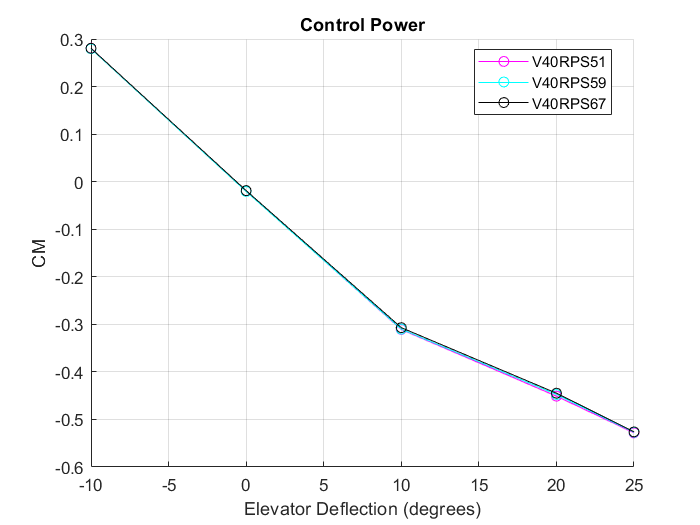
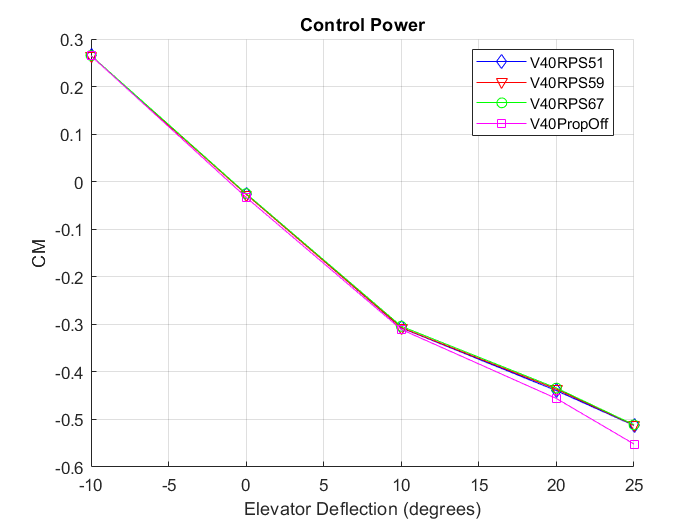
Push

diff --git a/BALANCE AND PRESSURE DATA/plotcontrolpowerV2.m b/BALANCE AND PRESSURE DATA/plotcontrolpowerV2.m
@@ -1,5 +1,5 @@
-function plotData = plotelevatoreffec(BAL)
-    % Define elevator deflection values
+function plotcontrolpowerV2(BAL)
+% Define elevator deflection values
     elevatorDeflections = [0, 10, 20, 25, -10];
     
     % Define windspeeds and RPS settings
@@ -16,16 +16,16 @@ function plotData = plotelevatoreffec(BAL)
             % Create field name
             fieldName = sprintf('V%dRPS%d', windspeeds(w), RPS_settings(r));
             
-            % Initialize CL values for the current combination
-            CL_values = zeros(size(elevatorDeflections));
+            % Initialize CMPITCH values for the current combination
+            CMPITCH_values = zeros(size(elevatorDeflections));
             
-            % Extract CL for the current combination of windspeed and RPS
+            % Extract CMPITCH for the current combination of windspeed and RPS
             for i = 6:numel(BAL.config)
                 % Get the configuration name
                 configName = BAL.config{i};
                 
-                % Extract CL, AoA, RPS, and windspeed for the current configuration
-                CL = BAL.windOn.(configName).CL;
+                % Extract CMPITCH, AoA, RPS, and windspeed for the current configuration
+                CMPITCH = BAL.windOn.(configName).CMpitch;
                 AoA = round(BAL.windOn.(configName).AoA);
                 current_RPS = round(BAL.windOn.(configName).rpsM1);
                 current_V = round(BAL.windOn.(configName).V);
@@ -33,12 +33,12 @@ function plotData = plotelevatoreffec(BAL)
                 % Find indices where AoA is zero and windspeed and RPS match the current combination
                 idx = find(AoA == 0 & current_RPS == RPS_settings(r) & current_V == windspeeds(w));
                 
-                % Store CL value corresponding to the matching elevator deflection
-                CL_values(i-5) = mean(CL(idx));
+                % Store CMPITCH value corresponding to the matching elevator deflection
+                CMPITCH_values(i-5) = mean(CMPITCH(idx));
             end
             
-            % Store CL values in the plotData struct
-            plotData.(fieldName) = CL_values;
+            % Store CMPITCH values in the plotData struct
+            plotData.(fieldName) = CMPITCH_values;
         end
     end
     % Loop over windspeeds
@@ -48,16 +48,16 @@ function plotData = plotelevatoreffec(BAL)
         % Create field name
         fieldName = sprintf('V%dPropOff', windspeeds(w));
         
-        % Initialize CL values for the current combination
-        CL_values = zeros(size(elevatorDeflections));
+        % Initialize CMPITCH values for the current combination
+        CMPITCH_values = zeros(size(elevatorDeflections));
         
-        % Extract CL for the current combination of windspeed and RPS
+        % Extract CMPITCH for the current combination of windspeed and RPS
         for i = 1:5
             % Get the configuration name
             configName = BAL.config{i};
             
-            % Extract CL, AoA, RPS, and windspeed for the current configuration
-            CL = BAL.windOn.(configName).CL;
+            % Extract CMPITCH, AoA, RPS, and windspeed for the current configuration
+            CMPITCH = BAL.windOn.(configName).CMpitch;
             AoA = round(BAL.windOn.(configName).AoA);
             
             current_V = round(BAL.windOn.(configName).V);
@@ -65,12 +65,12 @@ function plotData = plotelevatoreffec(BAL)
             % Find indices where AoA is zero and windspeed and RPS match the current combination
             idx = find(AoA == 0 & current_V == windspeeds(w));
             
-            % Store CL value corresponding to the matching elevator deflection
-            CL_values(i) = CL(idx);
+            % Store CMPITCH value corresponding to the matching elevator deflection
+            CMPITCH_values(i) = CMPITCH(idx);
         end
         
-        % Store CL values in the plotData struct
-        plotData.(fieldName) = CL_values;
+        % Store CMPITCH values in the plotData struct
+        plotData.(fieldName) = CMPITCH_values;
      
     end
     % Plot 
@@ -88,27 +88,27 @@ function plotData = plotelevatoreffec(BAL)
     % Loop over the fieldnames in plotData
     fnames = fieldnames(plotData);
     for i = 4:numel(fnames)
-        % Get CL values for the current combination
-        CL_values = plotData.(fnames{i});
+        % Get CMPITCH values for the current combination
+        CMPITCH_values = plotData.(fnames{i});
         
-        % Sort elevator deflections and CL values
+        % Sort elevator deflections and CMPITCH values
         [elevatorDeflectionsSorted, sortIdx] = sort(elevatorDeflections);
-        CL_valuesSorted = CL_values(sortIdx);
+        CMPITCH_valuesSorted = CMPITCH_values(sortIdx);
         
-        % Plot CL versus elevator deflection with varying markers
-        plot(elevatorDeflectionsSorted, CL_valuesSorted, markers{i}, 'Color', colors{i}, 'DisplayName', fnames{i});
+        % Plot CMPITCH versus elevator deflection with varying markers
+        plot(elevatorDeflectionsSorted, CMPITCH_valuesSorted, markers{i}, 'Color', colors{i}, 'DisplayName', fnames{i});
 
-        % Calculate slope (dCL/dde) using polyfit for linear regression
-        idx = find(elevatorDeflectionsSorted >= -10 & elevatorDeflectionsSorted <= 10);
-        p = polyfit(elevatorDeflectionsSorted(idx), CL_valuesSorted(idx), 1);
+        % Calculate slope (dCMPITCH/dde) using polyfit for linear regression
+        validIndices = find(elevatorDeflectionsSorted >= -10 & elevatorDeflectionsSorted <= 10);
+        p = polyfit(elevatorDeflectionsSorted(validIndices), CMPITCH_valuesSorted(validIndices), 1);
         slopes.(fnames{i}) = p(1); % Store the slope
     end
 
     
     % Add labels and legend
     xlabel('Elevator Deflection (degrees)');
-    ylabel('CL');
-    title('Elevator Effectiveness');
+    ylabel('CM');
+    title('Control Power');
     legend('Location', 'best');
     grid on;
     
@@ -117,9 +117,6 @@ function plotData = plotelevatoreffec(BAL)
     % Print slopes
     fnames = fieldnames(slopes);
     for i = 1:numel(fnames)
-        fprintf('Slope for Elevator Effectiveness %s: %f\n', fnames{i}, slopes.(fnames{i}));
+        fprintf('Slope for Control Power %s: %f\n', fnames{i}, slopes.(fnames{i}));
     end
 end
-
-
-  

diff --git a/BALANCE AND PRESSURE DATA/plotData.m b/BALANCE AND PRESSURE DATA/plotData.m
@@ -1,7 +1,7 @@
 function plotData(BAL)
     % Create figures for CL vs CD, CL vs AoA, and CM vs AoA
     figure;
-    
+    elevatordeflections = [0,10, 20, 25,-10, 0,10, 20, 25,-10]
     % Set a speed tolerance (adjust as needed)
     speed_tolerance = 2; % in m/s
     desired_AoA_sequence = [-5, 0, 5, 10];
@@ -14,6 +14,7 @@ function plotData(BAL)
         CD = BAL.windOn.(BAL.config{i}).CD;
         CM = BAL.windOn.(BAL.config{i}).CMpitch;
         V = BAL.windOn.(BAL.config{i}).V;
+        V_cor = BAL.windOn.(BAL.config{i}).V_blocked;
         AoA = round(AoA)
         
         CL_unc = BAL.windOn.(BAL.config{i}).CL_uncorrected;
@@ -22,10 +23,10 @@ function plotData(BAL)
     
         % Round speeds to the nearest integer
         rounded_speeds = round(V);
-    
+        rounded_correctedSpeeds =  round(V_cor);
         % Group speeds based on tolerance
         unique_speeds = unique(rounded_speeds);
-    
+        unique_correctedSpeeds = unique(rounded_correctedSpeeds);
         % Loop through each unique speed
         for j = 1:length(unique_speeds)
             % Extract data for the current speed
@@ -38,30 +39,32 @@ function plotData(BAL)
 
                 % Plot CL vs CD for the current speed
                 subplot(1, 3, 1);
-                plot(CL(idx_speed(order_idx)), CD(idx_speed(order_idx)), 'o-', 'DisplayName', [BAL.config{i}, ', V = ', num2str(unique_speeds(j)), ' m/s']);
+                plot(CL(idx_speed(order_idx)), CD(idx_speed(order_idx)), 'o-', 'DisplayName', ['de = ', num2str(elevatordeflections(i)), ', V = ', num2str(unique_correctedSpeeds(j)), ' m/s']);
                 hold on;
-                plot(CL_unc(idx_speed(order_idx)), CD_unc(idx_speed(order_idx)), 'o-', 'DisplayName', [BAL.config{i}, ', V = ', num2str(unique_speeds(j)), ' m/s (Uncorrected)']);
+                plot(CL_unc(idx_speed(order_idx)), CD_unc(idx_speed(order_idx)), 'x-', 'DisplayName', ['de = ',num2str(elevatordeflections(i)), ', V = ', num2str(unique_speeds(j)), ' m/s (Uncorrected)']);
 
                 % Plot CL vs AoA for the current speed
                 subplot(1, 3, 2);
-                plot(AoA(idx_speed(order_idx)), CL(idx_speed(order_idx)), 'o-', 'DisplayName', [BAL.config{i}, ', V = ', num2str(unique_speeds(j)), ' m/s']);
+                plot(AoA(idx_speed(order_idx)), CL(idx_speed(order_idx)), 'o-', 'DisplayName', ['de = ', num2str(elevatordeflections(i)), ', V = ', num2str(unique_correctedSpeeds(j)), ' m/s']);
                 hold on;
-                plot(AoA(idx_speed(order_idx)), CL_unc(idx_speed(order_idx)), 'o-', 'DisplayName', [BAL.config{i}, ', V = ', num2str(unique_speeds(j)), ' m/s (Uncorrected)']);
+                plot(AoA(idx_speed(order_idx)), CL_unc(idx_speed(order_idx)), 'x-', 'DisplayName', ['de = ', num2str(elevatordeflections(i)), ', V = ', num2str(unique_speeds(j)), ' m/s (Uncorrected)']);
 
                 % Plot CM vs AoA for the current speed
                 subplot(1, 3, 3);
-                plot(AoA(idx_speed(order_idx)), CM(idx_speed(order_idx)), 'o-', 'DisplayName', [BAL.config{i}, ', V = ', num2str(unique_speeds(j)), ' m/s']);
+                plot(AoA(idx_speed(order_idx)), CM(idx_speed(order_idx)), 'o-', 'DisplayName', ['de = ', num2str(elevatordeflections(i)), ', V = ', num2str(unique_correctedSpeeds(j)), ' m/s']);
                 hold on;
-                plot(AoA(idx_speed(order_idx)), CM_unc(idx_speed(order_idx)), 'o-', 'DisplayName', [BAL.config{i}, ', V = ', num2str(unique_speeds(j)), ' m/s (Uncorrected)']);
+                plot(AoA(idx_speed(order_idx)), CM_unc(idx_speed(order_idx)), 'x-', 'DisplayName', ['de = ', num2str(elevatordeflections(i)), ', V = ', num2str(unique_speeds(j)), ' m/s (Uncorrected)']);
             end
         end
     end
     
+
+
     % Add labels and legends for CL vs CD
     subplot(1, 3, 1);
     xlabel('CL');
     ylabel('CD');
-    title('CL vs CD for Sequences with 4 Data Points (Ordered by Desired AoA Sequence)');
+    % title('CL vs CD for Sequences with 4 Data Points (Ordered by Desired AoA Sequence)');
     legend('Location', 'Best');
     grid on;
     
@@ -69,7 +72,7 @@ function plotData(BAL)
     subplot(1, 3, 2);
     xlabel('Angle of Attack (degrees)');
     ylabel('CL');
-    title('CL vs AoA for Sequences with 4 Data Points (Ordered by Desired AoA Sequence)');
+    % title('CL vs AoA for Sequences with 4 Data Points (Ordered by Desired AoA Sequence)');
     legend('Location', 'Best');
     grid on;
     
@@ -77,7 +80,7 @@ function plotData(BAL)
     subplot(1, 3, 3);
     xlabel('Angle of Attack (degrees)');
     ylabel('CM');
-    title('CM vs AoA for Sequences with 4 Data Points (Ordered by Desired AoA Sequence)');
+    % title('CM vs AoA for Sequences with 4 Data Points (Ordered by Desired AoA Sequence)');
     legend('Location', 'Best');
     grid on;
 

diff --git a/BALANCE AND PRESSURE DATA/structureData.m b/BALANCE AND PRESSURE DATA/structureData.m
@@ -1,25 +1,31 @@
 function blockage_and_lift_corrected_BAL = structureData(BAL)
-
+    
+    blockage_and_lift_corrected_BAL = BAL
     for i = 1: numel(BAL.config)
         % update blockage V, CL, CD, q, TC, CMpitch, CMpitch25c
-        blockage_and_lift_corrected_BAL.windOn.(BAL.config(i)).V_uncorrected = BAL.windOn.(BAL.config(i)).V;
-        blockage_and_lift_corrected_BAL.windOn.(BAL.config(i)).CL_uncorrected = BAL.windOn.(BAL.config(i)).CL;
-        blockage_and_lift_corrected_BAL.windOn.(BAL.config(i)).CD_uncorrected = BAL.windOn.(BAL.config(i)).CD;
-        blockage_and_lift_corrected_BAL.windOn.(BAL.config(i)).q_uncorrected = BAL.windOn.(BAL.config(i)).q;
-        blockage_and_lift_corrected_BAL.windOn.(BAL.config(i)).TC_uncorrected = BAL.windOn.(BAL.config(i)).TC;
-        blockage_and_lift_corrected_BAL.windOn.(BAL.config(i)).CMpitch_uncorrected = BAL.windOn.(BAL.config(i)).CMpitch;
-        blockage_and_lift_corrected_BAL.windOn.(BAL.config(i)).CMpitch25c_uncorrected = BAL.windOn.(BAL.config(i)).CMpitch25c;
+        blockage_and_lift_corrected_BAL.windOn.(BAL.config{i}).V_uncorrected = BAL.windOn.(BAL.config{i}).V;
+        blockage_and_lift_corrected_BAL.windOn.(BAL.config{i}).CL_uncorrected = BAL.windOn.(BAL.config{i}).CL;
+        blockage_and_lift_corrected_BAL.windOn.(BAL.config{i}).CD_uncorrected = BAL.windOn.(BAL.config{i}).CD;
+        blockage_and_lift_corrected_BAL.windOn.(BAL.config{i}).q_uncorrected = BAL.windOn.(BAL.config{i}).q;
+        
+        blockage_and_lift_corrected_BAL.windOn.(BAL.config{i}).CMpitch_uncorrected = BAL.windOn.(BAL.config{i}).CMpitch;
+        blockage_and_lift_corrected_BAL.windOn.(BAL.config{i}).CMpitch25c_uncorrected = BAL.windOn.(BAL.config{i}).CMpitch25c;
         % update blockage V, CL, CD, q, TC, CMpitch, CMpitch25c
-        blockage_and_lift_corrected_BAL.windOn.(BAL.config(i)).V = BAL.windOn.(BAL.config(i)).V_blocked;
-        blockage_and_lift_corrected_BAL.windOn.(BAL.config(i)).CL = BAL.windOn.(BAL.config(i)).CL_blocked;
-        blockage_and_lift_corrected_BAL.windOn.(BAL.config(i)).CD = BAL.windOn.(BAL.config(i)).CD_blocked;
-        blockage_and_lift_corrected_BAL.windOn.(BAL.config(i)).q = BAL.windOn.(BAL.config(i)).q_blocked;
-        blockage_and_lift_corrected_BAL.windOn.(BAL.config(i)).TC = BAL.windOn.(BAL.config(i)).TC_blocked;
-        blockage_and_lift_corrected_BAL.windOn.(BAL.config(i)).CMpitch = BAL.windOn.(BAL.config(i)).CM_blocked;
-        blockage_and_lift_corrected_BAL.windOn.(BAL.config(i)).CMpitch25c = BAL.windOn.(BAL.config(i)).CM25c_blocked;
+        %blockage_and_lift_corrected_BAL.windOn.(BAL.config{i}).V = reshape(BAL.windOn.(BAL.config{i}).V_blocked, [], 1);
+        blockage_and_lift_corrected_BAL.windOn.(BAL.config{i}).CL = reshape(BAL.windOn.(BAL.config{i}).CL_blocked, [], 1);
+        blockage_and_lift_corrected_BAL.windOn.(BAL.config{i}).CD = reshape(BAL.windOn.(BAL.config{i}).CD_blocked, [], 1);
+        blockage_and_lift_corrected_BAL.windOn.(BAL.config{i}).q = reshape(BAL.windOn.(BAL.config{i}).q_blocked, [], 1);
+        
+        blockage_and_lift_corrected_BAL.windOn.(BAL.config{i}).CMpitch = reshape(BAL.windOn.(BAL.config{i}).CM_blocked, [], 1);
+        blockage_and_lift_corrected_BAL.windOn.(BAL.config{i}).CMpitch25c = reshape(BAL.windOn.(BAL.config{i}).CM25c_blocked, [], 1);
         % update for lift interferance: AoA, CMpitch, CD
-        blockage_and_lift_corrected_BAL.windOn.(BAL.config(i)).AoA = BAL.windOn.(BAL.config(i)).AoA_bc;
-        blockage_and_lift_corrected_BAL.windOn.(BAL.config(i)).CMpitch = BAL.windOn.(BAL.config(i)).CM_bc;
-        blockage_and_lift_corrected_BAL.windOn.(BAL.config(i)).CD = BAL.windOn.(BAL.config(i)).CD_bc;
+        blockage_and_lift_corrected_BAL.windOn.(BAL.config{i}).AoA = reshape(BAL.windOn.(BAL.config{i}).AoA_bc, [], 1);
+        blockage_and_lift_corrected_BAL.windOn.(BAL.config{i}).CMpitch = reshape(BAL.windOn.(BAL.config{i}).CM_bc, [], 1);
+        blockage_and_lift_corrected_BAL.windOn.(BAL.config{i}).CD = reshape(BAL.windOn.(BAL.config{i}).CD_bc, [], 1);
+
+        if i > 5 
+            blockage_and_lift_corrected_BAL.windOn.(BAL.config{i}).TC_uncorrected = BAL.windOn.(BAL.config{i}).TC;
+            blockage_and_lift_corrected_BAL.windOn.(BAL.config{i}).TC = BAL.windOn.(BAL.config{i}).TC_blocked;
+        end
 end
 

diff --git a/BALANCE AND PRESSURE DATA/PlotReynoldsCom.m b/BALANCE AND PRESSURE DATA/PlotReynoldsCom.m
@@ -1,0 +1,87 @@
+function PlotReynoldsCom(BAL)
+    desired_AoA_sequence = [-5, 0, 5, 10];
+    % Loop through each configuration
+    
+    % Extract relevant data
+    i = 6 % Take propon de 0 case where wee tested both at V= 20 and V = 40
+    AoA = BAL.windOn.(BAL.config{i}).AoA;
+    CL = BAL.windOn.(BAL.config{i}).CL;
+    CD = BAL.windOn.(BAL.config{i}).CD;
+    CM = BAL.windOn.(BAL.config{i}).CMpitch;
+    V = BAL.windOn.(BAL.config{i}).V;
+    V_cor = BAL.windOn.(BAL.config{i}).V_blocked;
+    Re = BAL.windOn.(BAL.config{i}).Re;
+    AoA = round(AoA)
+
+    % Round speeds to the nearest integer
+    rounded_speeds = round(V);
+    rounded_correctedSpeeds =  round(V_cor);
+    % Group speeds based on tolerance
+    unique_speeds = unique(rounded_speeds);
+    unique_correctedSpeeds = unique(rounded_correctedSpeeds);
+
+    markers = {'o-', 'x-'}
+    % Loop through each unique speed
+    for j = 1:length(unique_speeds)
+        % Extract data for the current speed
+        idx_speed = find(rounded_speeds == unique_speeds(j));
+        disp(idx_speed)
+        Re_numb = [Re(13),Re(1)]
+        disp(Re_numb)
+        % if j == 1 
+        %     Re_numb = Re(1)
+        %     disp('Yes!')
+        % else
+        %     Re_numb = Re(13)
+        %     disp('YES!!!!')
+        % Check if the sequence has exactly 4 data points
+        if sum(ismember(desired_AoA_sequence, AoA(idx_speed))) == 4
+            % Order the data for the current speed according to the desired sequence
+            [~, order_idx] = ismember(desired_AoA_sequence, AoA(idx_speed));
+
+            % Plot CL vs CD for the current speed
+            subplot(1, 3, 1);
+            plot(CL(idx_speed(order_idx)), CD(idx_speed(order_idx)), markers{j} , 'DisplayName', ['Re = ', num2str(round(Re_numb(j)/100000,2)), 'E5, V = ', num2str(unique_correctedSpeeds(j)), ' m/s']);
+            hold on;
+            
+
+            % Plot CL vs AoA for the current speed
+            subplot(1, 3, 2);
+            plot(AoA(idx_speed(order_idx)), CL(idx_speed(order_idx)), markers{j} , 'DisplayName', ['Re = ', num2str(round(Re_numb(j)/100000,2)), 'E5, V = ', num2str(unique_correctedSpeeds(j)), ' m/s']);
+            hold on;
+            
+            % Plot CM vs AoA for the current speed
+            subplot(1, 3, 3);
+            plot(AoA(idx_speed(order_idx)), CM(idx_speed(order_idx)), markers{j} , 'DisplayName', ['Re = ', num2str(round(Re_numb(j)/100000,2)), 'E5, V = ', num2str(unique_correctedSpeeds(j)), ' m/s']);
+            hold on;
+            end
+    end
+    
+    
+
+
+    % Add labels and legends for CL vs CD
+    subplot(1, 3, 1);
+    xlabel('CL');
+    ylabel('CD');
+    % title('CL vs CD for Sequences with 4 Data Points (Ordered by Desired AoA Sequence)');
+    legend('Location', 'Best');
+    grid on;
+    
+    % Add labels and legends for CL vs AoA
+    subplot(1, 3, 2);
+    xlabel('Angle of Attack (degrees)');
+    ylabel('CL');
+    % title('CL vs AoA for Sequences with 4 Data Points (Ordered by Desired AoA Sequence)');
+    legend('Location', 'Best');
+    grid on;
+    
+    % Add labels and legends for CM vs AoA
+    subplot(1, 3, 3);
+    xlabel('Angle of Attack (degrees)');
+    ylabel('CM');
+    % title('CM vs AoA for Sequences with 4 Data Points (Ordered by Desired AoA Sequence)');
+    legend('Location', 'Best');
+    grid on;
+
+end

diff --git a/BALANCE AND PRESSURE DATA/main_AE4115labExercise_balancePressure.m b/BALANCE AND PRESSURE DATA/main_AE4115labExercise_balancePressure.m
@@ -16,10 +16,10 @@ path = genpath(mainfolder);
 subpath1 = genpath('WindtunnelCorrections');
 subpath2 = genpath('BALANCE AND PRESSURE DATA'); 
 addpath(mainfolder);
-addpath(subpath1);
+addpath(subpath1); 
 addpath(subpath2);
 
-
+disp('ik hou van anton')
 
 %% Inputs
 
@@ -114,16 +114,20 @@ BAL = liftinterference(BAL, tail_off_20, tail_off_40);
 %% ---- Create Corrected and Uncorrected BAL Struct ---- %%
 
 Uncorrected_BAL = BAL
-blockage_and_lift_corrected_BAL = BAL
-% blockage_and_lift_corrected_BAL = structureData(BAL)
+%
+blockage_and_lift_corrected_BAL = structureData(BAL)
+BAL = blockage_and_lift_corrected_BAL
 %% ---- Calculate and plot aerodynamic performance at trimmed conditions ---- %
 
 [BAL,Trimmed_conditions] = find_trimmed_conditionsv2(BAL)
 
 %% --------Result Plotting-------- %%
-plotelevatoreffec(BAL)
+PlotReynoldsCom(BAL)
+% plotData(BAL)
+% plotelevatoreffec(BAL)
 % plotTCvsRPS(BAL)% plotData(BAL)
 % plotcontrolpower(BAL)
+% plotcontrolpowerV2(BAL)
 % plotcmalpha(BAL)	
 
 
